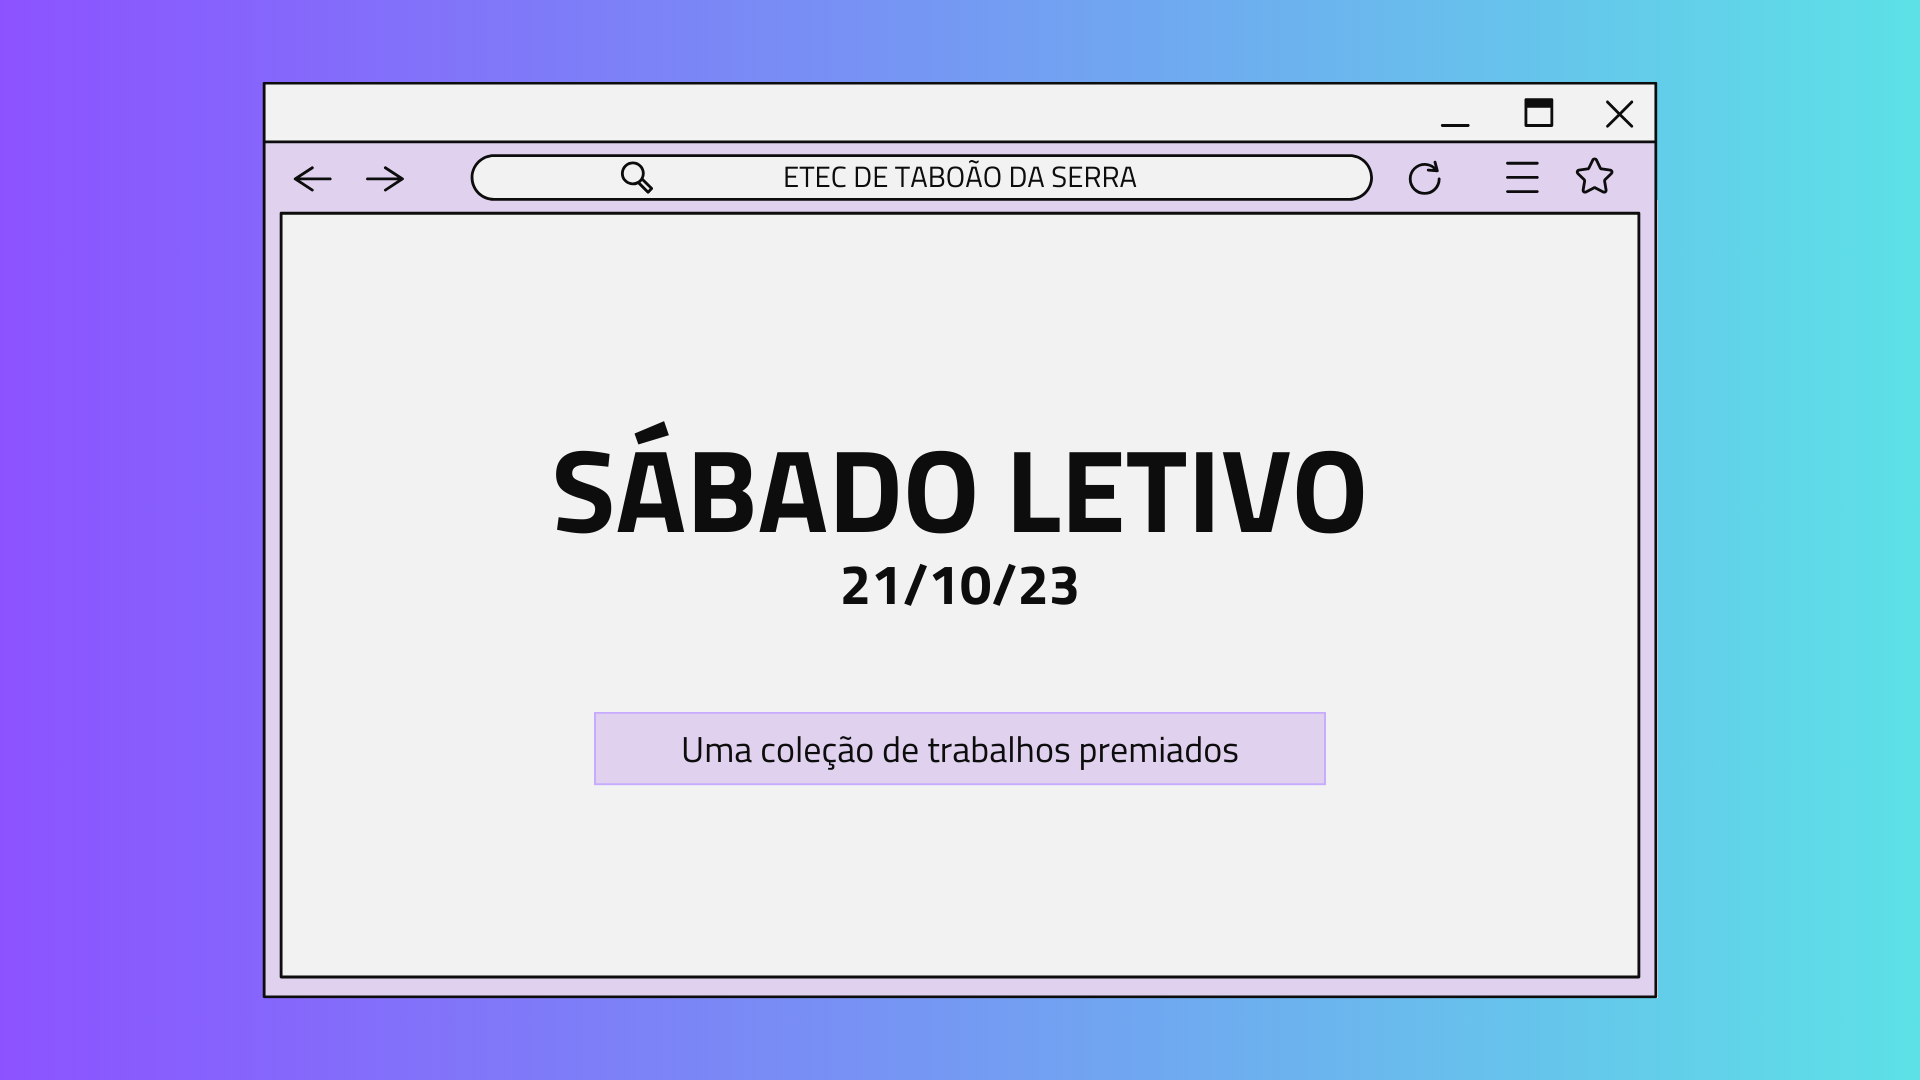
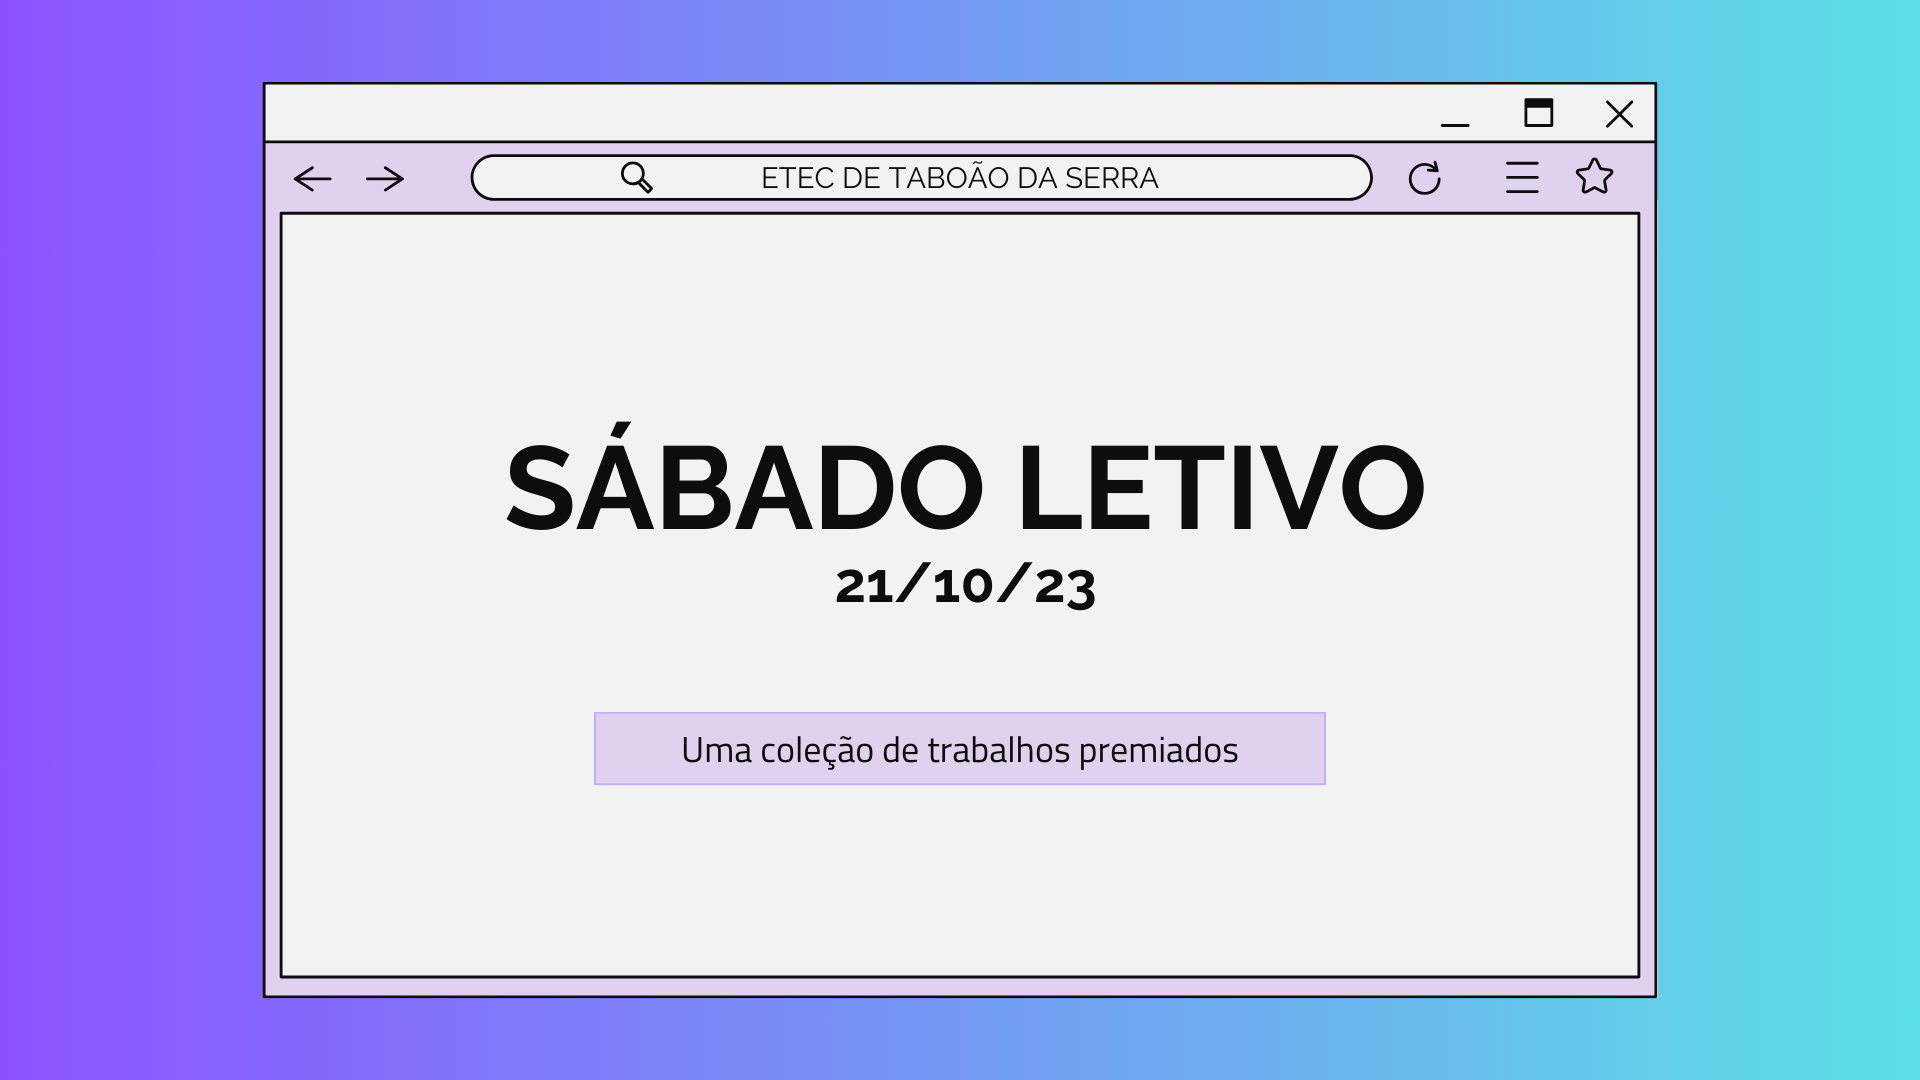
V1.1.1
Adicionando conteúdo

Changed region(s): [[0.25, 0.3972, 0.75, 0.5194], [0.4375, 0.5194, 0.5938, 0.5806], [0.4062, 0.1528, 0.5938, 0.1833]]

diff --git a/index.html b/index.html
@@ -6,7 +6,10 @@
     <title>Sábado Letivo</title>
     <link rel="stylesheet" href="styles.css">
     <link href="https://cdn.jsdelivr.net/npm/bootstrap@5.0.2/dist/css/bootstrap.min.css" rel="stylesheet" integrity="sha384-EVSTQN3/azprG1Anm3QDgpJLIm9Nao0Yz1ztcQTwFspd3yD65VohhpuuCOmLASjC" crossorigin="anonymous">
-</head>
+    <link rel="preconnect" href="https://fonts.googleapis.com">
+    <link rel="preconnect" href="https://fonts.gstatic.com" crossorigin>
+    <link href="https://fonts.googleapis.com/css2?family=Raleway:wght@300&display=swap" rel="stylesheet">
+  </head>
 <body>
 
     <div id="global"> 
@@ -17,26 +20,31 @@
                     <div class="bg-light p-4">
                       <ul>
                         <li>
-                          <h3 class="nav-itens" id="sabado">Sábado letivo</h3>
+                          <a href="#apresentacaoTxt" class="nav-itens" id="apresentacao">Apresetação</a>
                         </li>
                         <li>
-                          <h3 class="nav-itens" id="interclasse">Interclasse</h3>
+                          <a href="#sabadoTxt" class="nav-itens" id="sabado">Sábado letivo</a>
                         </li>
                         <li>
-                          <h3 class="nav-itens" id="campeoes">Campeões</h3>
+                          <a href="#interclasseTxt" class="nav-itens" id="interclasse">Interclasse</a>
                         </li>
                         <li>
-                          <h3 class="nav-itens" id="considFinais">Considerações finais</h3>
+                          <a href="#campeoesTxt" class="nav-itens" id="campeoes">Campeões</a>
                         </li>
                         <li>
-                          <h3 class="nav-itens" id="sobreNos">Sobre nós</h3>
+                          <a href="#considFinaisTxt" class="nav-itens" id="considFinais">Considerações finais</a>
+                        </li>
+                        <li>
+                          <a href="sobreNosTxt" class="nav-itens" id="sobreNos">Sobre nós</a>
                         </li>
                       </ul>
                     </div>
                   </div>
+                  
                   <nav class="navbar navbar-light bg-light">
                     <div class="container-fluid">
-                    <p>ETEC DE TABOÃO DA SERRA</p>
+                      <hr>
+                    <p>ETEC DE TABOÃO DA SERRA - 2023</p>
                       <button class="navbar-toggler" type="button" data-bs-toggle="collapse" data-bs-target="#navbarToggleExternalContent" aria-controls="navbarToggleExternalContent" aria-expanded="false" aria-label="Toggle navigation">
                         <span class="navbar-toggler-icon"></span>
                       </button>
@@ -73,9 +81,23 @@
             </div>
 
             <div class="conteudo">
-              <h1>SÁBADO LETIVO</h1>
-              <p class="texto">Lorem ipsum dolor sit amet consectetur adipisicing elit. Quod atque, praesentium quas nam reprehenderit aliquam laudantium dolorum voluptatibus quasi cum fuga possimus, exercitationem sint nostrum quidem dolore aperiam. Corrupti, autem!Lorem ipsum dolor sit amet consectetur adipisicing elit. Quod atque, praesentium quas nam reprehenderit aliquam laudantium dolorum voluptatibus quasi cum fuga possimus, exercitationem sint nostrum quidem dolore aperiam. Corrupti, autem!</p>
-              
+              <h1 id="apresentacaoTxt">APRESENTAÇÃO</h1>
+              <hr class="hr">
+              <p class="texto">Bem-vindo ao portal dedicado ao vibrante Sábado Letivo da Etec de Taboão da Serra, que iluminou as instalações no dia 20 de outubro de 2023! Este dia foi o epílogo emocionante de um evento ainda mais grandioso, o Interclasse, que agitou a quadra nos dias 10 e 11 de outubro, das 07:30 às 15:30.</p>
+              <div id="img-etec">
+              <img src="./assets/etecTaboao.png" class="img" alt="...">
+              <img src="./assets/etec_taboao2.png" class="img" alt="...">
+              </div>
+
+              <h1 id="sabadoTxt">SÁBADO LETIVO</h1>
+              <hr class="hr">
+              <p class="texto">Os estudantes, tanto do período integral quanto do modular, foram envolvidos em um turbilhão de 
+                atividades pensadas exclusivamente para proporcionar diversão e entretenimento. Salas foram dedicadas à prática 
+                animada de karaokê, onde talentos musicais foram revelados e risadas ecoaram. Já na energia contagiante das 
+                pistas de dança, foi onde passos de diferentes estilos se entrelaçaram em uma celebração de movimento e alegria. 
+                Para os amantes de esportes, o vôlei foi o destaque, com partidas acirradas que uniram competição e camaradagem. 
+                Já os entusiastas dos jogos de tabuleiro encontraram seu refúgio em espaços dedicados, onde estratégias foram 
+                traçadas e risos foram compartilhados.</p>
               <div id="cards">
                 <div class="card" id="card" style="width: 18rem;">
                   <img src="./assets/conviteSabado.png" class="card-img-top" alt="Convite do evento">
@@ -89,71 +111,108 @@
                   <img src="./assets/conviteabadoNos.png" class="card-img-top" alt="Convite do evento">
                 </div>
               </div>
+              <p class="texto">Mas não acaba por aí. O Sábado Letivo também reservou espaços especiais 
+                para a arte da entrevista, onde os participantes do Interclasse puderam compartilhar suas experiências, vitórias 
+                e momentos especiais. Uma oportunidade única para conhecer as histórias por trás das competições e celebrar a 
+                diversidade de talentos que fazem da Etec de Taboão da Serra uma comunidade única.</p>
 
-              <p class="texto">Lorem ipsum dolor sit amet consectetur adipisicing elit. Quod atque, praesentium quas nam reprehenderit aliquam laudantium dolorum voluptatibus quasi cum fuga possimus, exercitationem sint nostrum quidem dolore aperiam. Corrupti, autem!Lorem ipsum dolor sit amet consectetur adipisicing elit. Quod atque, praesentium quas nam reprehenderit aliquam laudantium dolorum voluptatibus quasi cum fuga possimus, exercitationem sint nostrum quidem dolore aperiam. Corrupti, autem!</p>
               <h1>IMAGENS DO EVENTO</h1>
               <div class="imagens">
-                <div class="card bg-dark text-white">
+                <div class="card bg-light text-white">
                   <img src="./assets/fotosEvento/foto1.png" class="card-img" alt="...">
                 </div>
-                <div class="card bg-dark text-white">
+                <div class="card bg-light text-white">
                   <img src="./assets/fotosEvento/foto2.png" class="card-img" alt="...">
                 </div>
-                <div class="card bg-dark text-white">
+                <div class="card bg-light text-white">
                   <img src="./assets/fotosEvento/foto3.png" class="card-img" alt="...">
                 </div>
-                <div class="card bg-dark text-white">
+                <div class="card bg-light text-white">
                   <img src="./assets/fotosEvento/foto4.png" class="card-img" alt="...">
                 </div>
-                <div class="card bg-dark text-white">
+                <div class="card bg-light text-white">
                   <img src="./assets/fotosEvento/foto5.png" class="card-img" alt="...">
                 </div>
-                <div class="card bg-dark text-white">
+                <div class="card bg-light text-white">
                   <img src="./assets/fotosEvento/foto6.png" class="card-img" alt="...">
                 </div>
-                <div class="card bg-dark text-white">
+                <div class="card bg-light text-white">
                   <img src="./assets/fotosEvento/foto7.png" class="card-img" alt="...">
                 </div>
-                <div class="card bg-dark text-white">
+                <div class="card bg-light text-white">
                   <img src="./assets/fotosEvento/foto8.png" class="card-img" alt="...">
                 </div>
-                <div class="card bg-dark text-white">
+                <div class="card bg-light text-white">
                   <img src="./assets/fotosEvento/foto9.png" class="card-img" alt="...">
                 </div>
-                <div class="card bg-dark text-white">
+                <div class="card bg-light text-white">
                   <img src="./assets/fotosEvento/foto10.png" class="card-img" alt="...">
                 </div>
-                <div class="card bg-dark text-white">
+                <div class="card bg-light text-white">
                   <img src="./assets/fotosEvento/foto11.png" class="card-img" alt="...">
                 </div>
-                <div class="card bg-dark text-white">
+                <div class="card bg-light text-white">
                   <img src="./assets/fotosEvento/foto12.png" class="card-img" alt="...">
                 </div>
-                <div class="card bg-dark text-white">
+                <div class="card bg-light text-white">
                   <img src="./assets/fotosEvento/foto13.png" class="card-img" alt="...">
                 </div>
-                <div class="card bg-dark text-white">
+                <div class="card bg-light text-white">
                   <img src="./assets/fotosEvento/foto14.png" class="card-img" alt="...">
                 </div>
-                <div class="card bg-dark text-white">
+                <div class="card bg-light text-white">
                   <img src="./assets/fotosEvento/foto15.png" class="card-img" alt="...">
                 </div>
-                <div class="card bg-dark text-white">
+                <div class="card bg-light text-white">
                   <img src="./assets/fotosEvento/foto16.png" class="card-img" alt="...">
                 </div>
-                <div class="card bg-dark text-white">
+                <div class="card bg-light text-white">
                   <img src="./assets/fotosEvento/foto17.png" class="card-img" alt="...">
                 </div>
-                <div class="card bg-dark text-white">
+                <div class="card bg-light text-white">
                   <img src="./assets/fotosEvento/foto18.png" class="card-img" alt="...">
                 </div>
               </div>
+
+              <h1 id="interclasseTxt">INTERCLASSE</h1>
+              <hr class="hr">
+              <p class="texto">Os alunos das seis turmas da Etec de Taboão da Serra separaram entre si os participantes que iriam 
+                representar as classes nos times de vôlei e futsal feminino e masculino e além dessas modalidades, também houveram 
+                outras, tais como, a redação, pintura no quadro, dança e xadrez. As escalações dos times escolhidos representantes 
+                de cada sala foram decididas e expostas para os alunos envolvidos nos jogos através de uma convocação numa sala de 
+                reunião em quinze minutos durante o período de almoço dos estudantes e colaboradores da escola.</p>
+
+              <p class="texto">É válido enfatizar que o interclasse tem a função além do divertimento, vontade de vencer e dar o melhor de si, 
+                de escutar idéias diferentes e tornar pessoas unidas. O evento ocorreu dentre os dias 10 e 11 do mês de Outubro, 
+                no período de aula integral estudantil da Instituição (07:30 - 15:30). Pode- se afirmar que para os estudantes da 
+                escola, este evento é considerado o mais esperado e desejado durante todo o ano de estudos no colégio, então 
+                consequentemente é o mais elaborado, pois todos trabalham em equipe, incluem uns aos outros, e deixam a criatividade 
+                rolar. Para que o projeto não seja "negado" por alguém, todos pensam em cada um, seja nos pontos fracos e fortes também!</p>
+
+              <h1 id="campeoesTxt">CAMPEÕES</h1>
+              <hr class="hr">
+              <p class="texto">Lorem ipsum dolor sit amet consectetur adipisicing elit. Quod atque, praesentium quas nam reprehenderit aliquam laudantium dolorum voluptatibus quasi cum fuga possimus, exercitationem sint nostrum quidem dolore aperiam. Corrupti, autem!Lorem ipsum dolor sit amet consectetur adipisicing elit. Quod atque, praesentium quas nam reprehenderit aliquam laudantium dolorum voluptatibus quasi cum fuga possimus, exercitationem sint nostrum quidem dolore aperiam. Corrupti, autem!</p>
+
+              <h1 id="considFinaisTxt">CONSIDERAÇÕES FINAIS</h1>
+              <hr class="hr">
+              <p class="texto">Lorem ipsum dolor sit amet consectetur adipisicing elit. Quod atque, praesentium quas nam reprehenderit aliquam laudantium dolorum voluptatibus quasi cum fuga possimus, exercitationem sint nostrum quidem dolore aperiam. Corrupti, autem!Lorem ipsum dolor sit amet consectetur adipisicing elit. Quod atque, praesentium quas nam reprehenderit aliquam laudantium dolorum voluptatibus quasi cum fuga possimus, exercitationem sint nostrum quidem dolore aperiam. Corrupti, autem!</p>
+
+              <h1 id="sobreNosTxt">SOBRE NÓS</h1>
+              <hr class="hr">
+              <p class="texto">Lorem ipsum dolor sit amet consectetur adipisicing elit. Quod atque, praesentium quas nam reprehenderit aliquam laudantium dolorum voluptatibus quasi cum fuga possimus, exercitationem sint nostrum quidem dolore aperiam. Corrupti, autem!Lorem ipsum dolor sit amet consectetur adipisicing elit. Quod atque, praesentium quas nam reprehenderit aliquam laudantium dolorum voluptatibus quasi cum fuga possimus, exercitationem sint nostrum quidem dolore aperiam. Corrupti, autem!</p>
+
+
             </div>
 
         </main>
 
-        <footer id="rodapé">
-
+        <footer id="rodape">
+          <div class="footer">
+          <h4>ETEC DE TABOÃO DA SERRA</h4>
+          <p class="rodapeP">Praça Miguel Ortega, 135 - Parque Assuncao, Taboão da Serra - SP, 06754-160</p>
+          <p class="rodapeP">47011856</p>
+          <a href="https://etects.com.br/" id="linkRodape">Saiba mais</a>
+          </div>
         </footer>
     </div>
 

diff --git a/styles.css b/styles.css
@@ -1,15 +1,22 @@
+* {
+    margin: 0;
+    padding: 0;
+    box-sizing: border-box;
+}
+
 body, html {
-    width: 100%;
-    height: 100%;
+    width: auto;
+    height: auto;
     margin: 0px;
     padding: 0px;
     background: rgb(139,85,255);
     background: linear-gradient(90deg, rgba(139,85,255,1) 35%, rgba(93,220,230,1) 100%);
+    font-family: 'Raleway', sans-serif;
 }
 
 div#global {
-    width: 100%;
-    height: 100%;
+    width: auto;
+    height: auto;
 }
 
 nav {
@@ -20,22 +27,26 @@ nav {
 div.container-fluid p {
     margin-top: 1%;
     font-size: large;
-    font-family: 'Franklin Gothic Medium', 'Arial Narrow', Arial, sans-serif;
 }
 
 ul {
     list-style: none;
 }
 
-h3.nav-itens {
+a.nav-itens {
+    text-decoration: none;
+    color: black;
     margin: 0px;
     padding: 5px;
     font-size: large;
-    font-family: 'Franklin Gothic Medium', 'Arial Narrow', Arial, sans-serif;
+}
+
+a.nav-itens :hover {
+    color: #8C54FF;
 }
 
 div.carrossel {
-    box-shadow: 10px 5px 5px white;
+    box-shadow: 0px 5px 5px white;
 }
 
 div.conteudo {
@@ -53,14 +64,45 @@ h1 {
     padding: 2%;
     color: white;
     font-size: xx-large;
-    font-family: 'Franklin Gothic Medium', 'Arial Narrow', Arial, sans-serif;
+    font-family: 'Raleway', sans-serif;
+    font-weight: bold;
+}
+
+hr:not([size]) {
+    height: 2px;
+}
+
+hr.hr {
+    width: 100%;
+    height: 3px;
+    background-color: white;
+    margin: 5px;
 }
 
 p.texto {
     padding: 3%;
     color: white;
     font-size: large;
-    font-family: 'Franklin Gothic Medium', 'Arial Narrow', Arial, sans-serif;
+}
+
+img.img {
+    width: 45%;
+    height: 45%;
+    margin-bottom: 5%;
+    margin: 2%;
+    box-shadow: 10px 10px 10px white;
+}
+
+img.img:hover {
+    transform: scale(1.05);
+    transition: 250ms linear; 
+}
+
+div#img-etec {
+    width: auto;
+    display: flex;
+    justify-content: center;
+    align-items: center;
 }
 
 div#cards {
@@ -75,10 +117,14 @@ div.card {
     text-align: center;
 }
 
+div.card:hover {
+    transform: scale(1.05);
+    transition: 250ms linear; 
+}
+
 p.card-text {
     margin: 0px;
     font-size: large;
-    font-family: 'Franklin Gothic Medium', 'Arial Narrow', Arial, sans-serif;
 }
 
 div.imagens {
@@ -87,3 +133,62 @@ div.imagens {
     align-content: center;
     gap: 10px;
 }
+
+footer#rodape {
+    background-color: white;
+    width: 100%;
+    height: auto;
+    margin-top: 3%;
+}
+
+div.footer {
+    padding: 2%;
+    padding-left: 5%;
+}
+
+h4 {
+    text-decoration: none;
+    font-size: medium;
+    font-family: 'Raleway', sans-serif;
+}
+
+p.rodapeP {
+    text-decoration: none;
+    color: black;
+    margin: 0px;
+    font-size: large;
+    font-family: 'Raleway', sans-serif;
+}
+
+a#linkRodape {
+    font-family: 'Raleway', sans-serif;
+    color: black;
+}
+
+@media screen and (max-width: 800px) {
+    div.conteudo {
+        margin-top: 2%;
+        margin-left: 7%;
+        margin-right: 7%;
+    }
+
+    p.texto {
+        font-size: medium;
+    }
+
+    div#img-etec {
+        display: flex;
+        flex-wrap: wrap;
+    }
+
+    
+    div#cards {
+        display: flex;
+        flex-wrap: wrap;
+        gap: 10px;
+    }
+  }
+
+  @media screen and (max-width: 760px) {
+    
+  }
